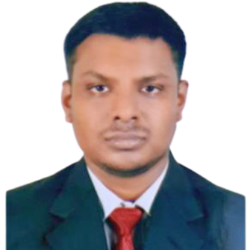
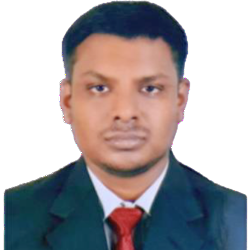
Improve profile photo appearance and integration into the design
Update profile image styling to include a gradient background and adjust transparency for better blending with the page's gradient.

Replit-Commit-Author: Agent
Replit-Commit-Session-Id: b83559a5-559d-4773-b229-b9528cb0539f
Replit-Commit-Checkpoint-Type: full_checkpoint
Replit-Commit-Event-Id: 46c59a0c-94d5-4427-b9c1-9096adc41889
Replit-Commit-Screenshot-Url: https://storage.googleapis.com/screenshot-production-us-central1/485766c3-dd60-4c76-801d-f1345ef4da6f/b83559a5-559d-4773-b229-b9528cb0539f/xCxiZ9F
Replit-Helium-Checkpoint-Created: true

diff --git a/artifacts/portfolio/src/pages/Home.tsx b/artifacts/portfolio/src/pages/Home.tsx
@@ -219,13 +219,13 @@ export default function Home() {
             >
               <div className="relative">
                 <div className="absolute -inset-4 rounded-3xl bg-gradient-to-br from-primary/20 via-secondary/20 to-primary/10 blur-2xl animate-pulse" style={{ animationDuration: '4s' }} />
-                <div className="relative w-64 h-64 sm:w-72 sm:h-72 lg:w-80 lg:h-80 rounded-3xl overflow-hidden border-2 border-primary/20 rotate-3 hover:rotate-0 transition-transform duration-700">
+                <div className="relative w-64 h-64 sm:w-72 sm:h-72 lg:w-80 lg:h-80 rounded-3xl overflow-hidden border-2 border-primary/20 rotate-3 hover:rotate-0 transition-transform duration-700 bg-gradient-to-br from-primary/10 via-secondary/5 to-background">
                   <img
                     src={`${BASE_URL}/farhan-profile.png`}
                     alt="Farhan Alam"
                     className="w-full h-full object-cover"
                   />
-                  <div className="absolute inset-0 bg-gradient-to-t from-background/60 via-transparent to-transparent" />
+                  <div className="absolute inset-0 bg-gradient-to-t from-background/40 via-transparent to-transparent" />
                 </div>
               </div>
             </motion.div>
